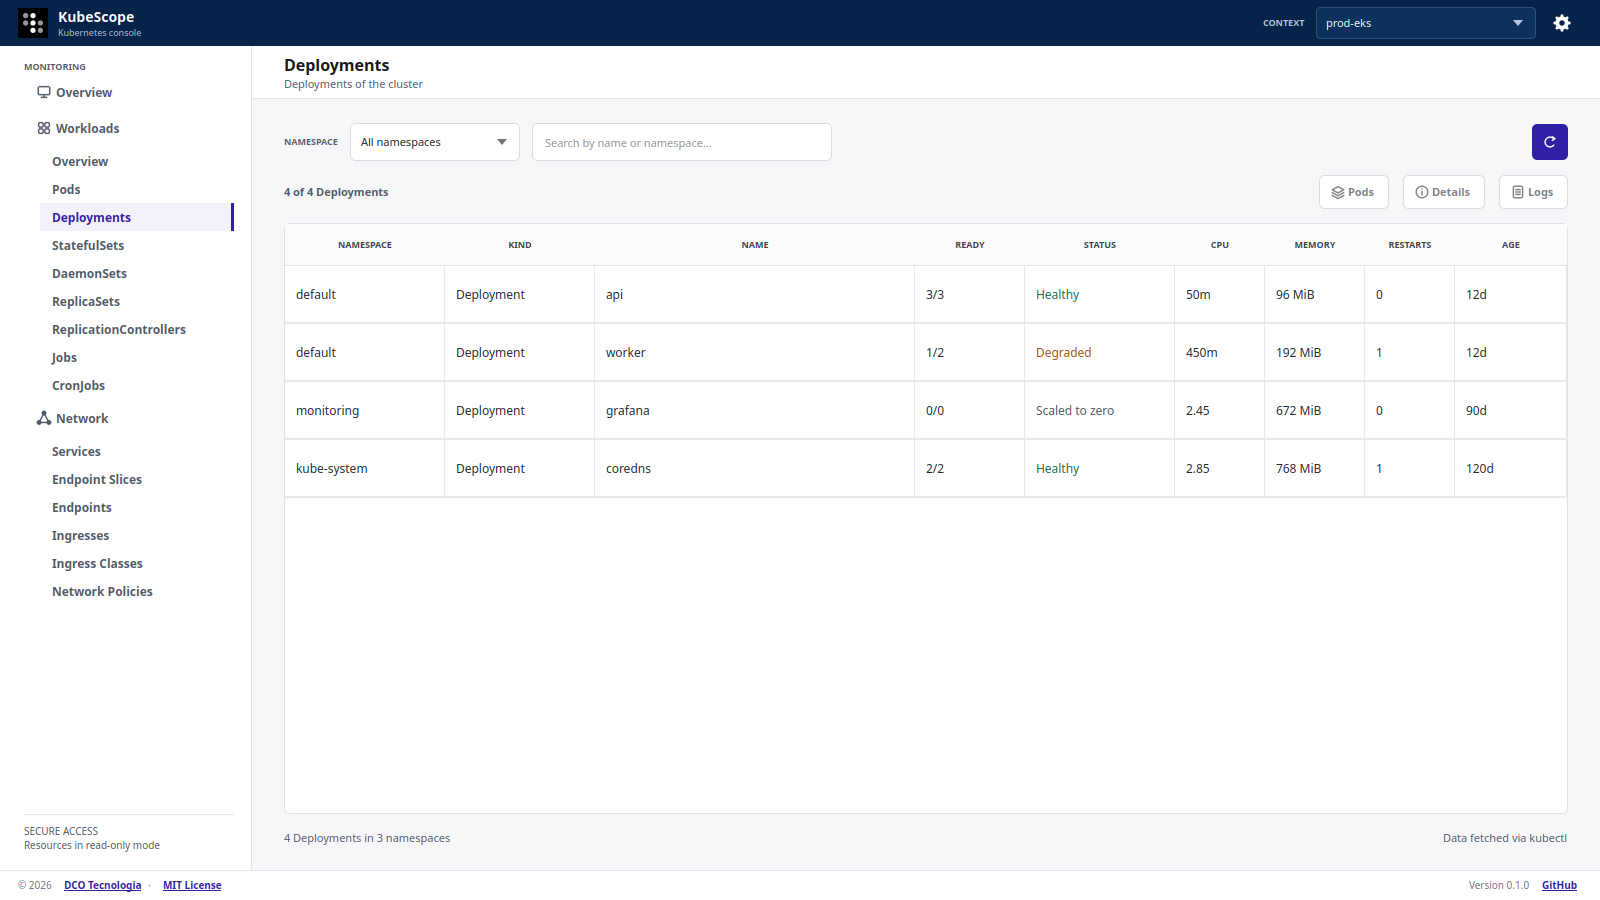
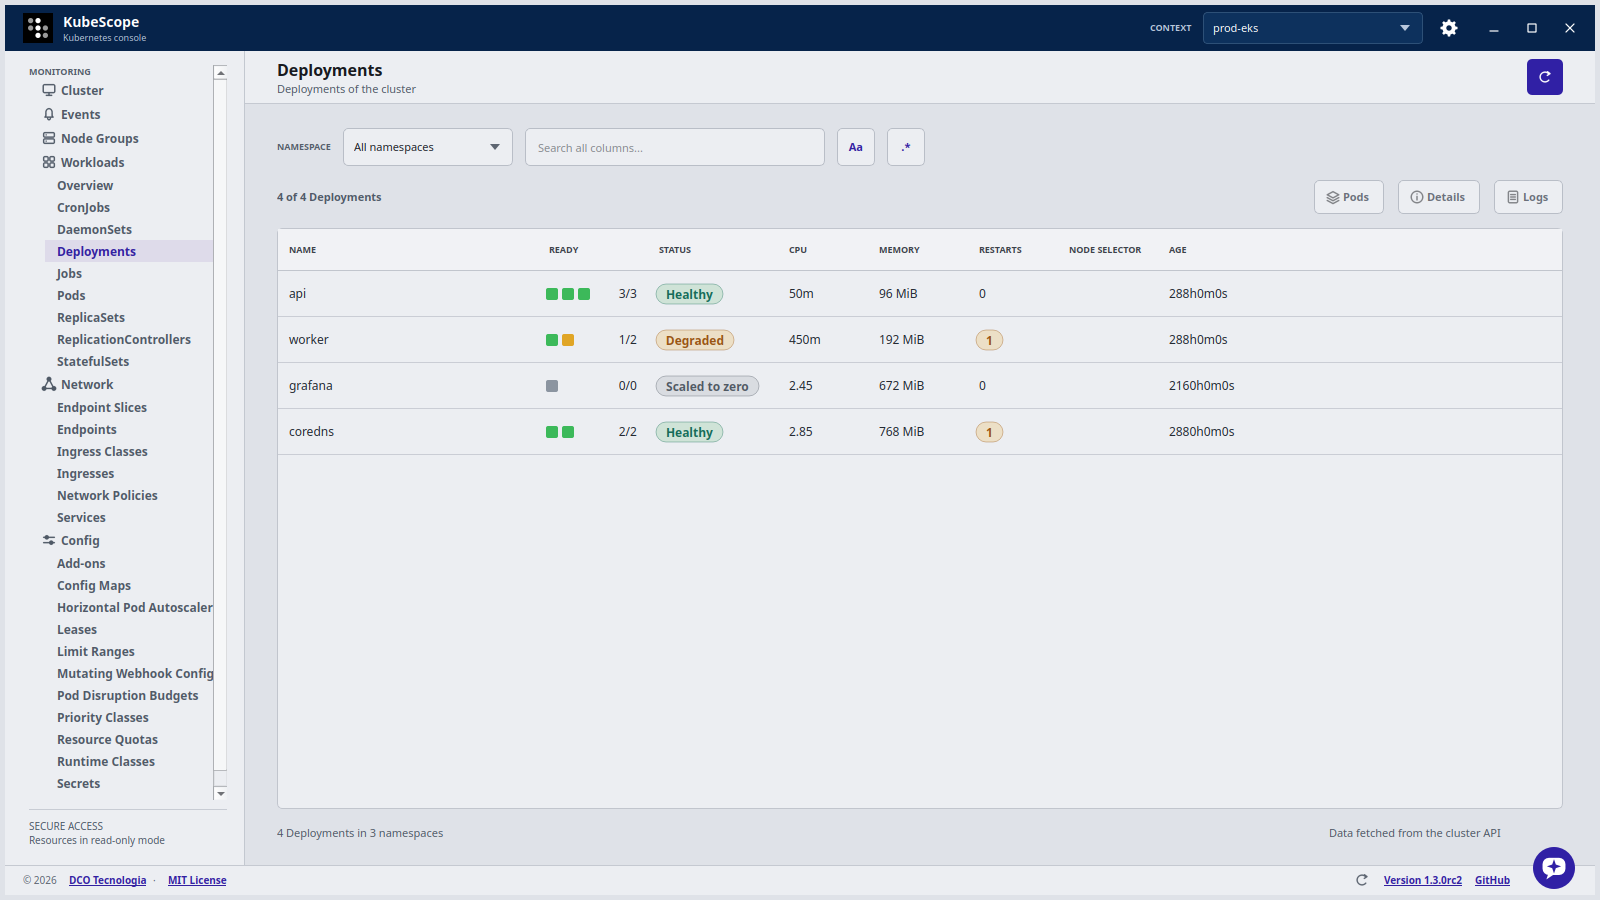
feat(theme): make the Light theme gray instead of white
- map the whites and the pale tints of the code to soft grays in light.json: the page,
  the surfaces of the tables and the fields, the tints of the states and of the
  selection, with firmer borders and quiet texts a step stronger to read on them
- let a theme made from Light start from these grays
- regenerate the screenshots of the Light theme

diff --git a/tests/test_theme.py b/tests/test_theme.py
@@ -132,7 +132,7 @@ def test_applying_a_theme_switches_the_palette() -> None:
     assert disabled.name() == "#6b7380"
 
     apply_theme(application, "light")
-    assert application.palette().color(QPalette.ColorRole.Window).name() == "#f7f7fa"
+    assert application.palette().color(QPalette.ColorRole.Window).name() == "#dfe2e8"
 
 
 def test_a_theme_always_runs_on_the_fusion_style() -> None:
@@ -170,7 +170,9 @@ def test_a_custom_theme_starts_from_its_base_and_changes_only_what_it_lists() ->
     )  # inherited from dark
 
     light_based = theme.parse_theme("plain", {"name": "Plain"})
-    assert light_based.base == "light" and light_based.colors == {}
+    # it starts from its base: the soft grays of Light, not the white of the code
+    assert light_based.base == "light"
+    assert light_based.colors == theme.LIGHT_THEME.colors
 
 
 def test_a_role_recolors_every_light_color_it_covers() -> None:
@@ -185,9 +187,11 @@ def test_on_accent_sets_the_color_of_text_that_is_white_in_the_light_theme() -> 
     theme._active = custom
 
     assert themed("#ffffff", text=True) == "#eeeeee"
-    assert themed("#ffffff") == "#ffffff"  # as a background it is untouched
+    assert (
+        themed("#ffffff") == "#eceef2"
+    )  # as a background it is the soft gray of Light
     assert "color: #eeeeee" in themed_stylesheet("QLabel { color: #ffffff; }")
-    assert "background: #ffffff" in themed_stylesheet("QLabel { background: #ffffff; }")
+    assert "background: #eceef2" in themed_stylesheet("QLabel { background: #ffffff; }")
 
 
 @pytest.mark.parametrize(
@@ -251,7 +255,7 @@ def test_theme_tokens_show_the_color_of_every_role() -> None:
     dark = theme.theme_tokens(theme.DARK_THEME)
 
     assert set(light) == set(theme.TOKENS) == set(dark)
-    assert light["page"] == "#f7f7fa" and dark["page"] == "#11141a"
+    assert light["page"] == "#dfe2e8" and dark["page"] == "#11141a"
     assert light["on_accent"] == dark["on_accent"] == "#ffffff"
     assert dark["bar_warning"] == "#e0a030"  # the same orange in both
 
@@ -428,8 +432,11 @@ def test_light_and_dark_come_from_their_json_files() -> None:
     light = json.loads((theme.BUNDLED_DIRECTORY / "light.json").read_text("utf-8"))
 
     assert theme.DARK_THEME.colors == dark["palette"] and theme.DARK_THEME.builtin
-    assert theme.LIGHT_THEME.colors == {} and "palette" not in light
+    assert theme.LIGHT_THEME.colors == light["palette"] and theme.LIGHT_THEME.builtin
     assert dark["palette"]["#ffffff"] == theme.SURFACE
+    # Light is gray, not white: no surface of it is brighter than a soft gray
+    for source in ("#f7f7fa", "#ffffff", "#f3f4f7", "#fbfbfc", "#f6f6fa"):
+        assert QColor(light["palette"][source]).lightness() <= 245
 
 
 def test_bundled_themes_keep_their_text_readable() -> None:

diff --git a/tests/test_window_flows.py b/tests/test_window_flows.py
@@ -1518,14 +1518,14 @@ def test_the_theme_is_chosen_in_settings_and_applied_at_once(monkeypatch) -> Non
     assert [form.themeCombo.itemData(i) for i in range(2)] == ["light", "dark"]
     assert form.themeCombo.currentData() == "light"
     light_style = window.styleSheet()
-    assert "#f7f7fa" in light_style and "#11141a" not in light_style
+    assert "#dfe2e8" in light_style and "#11141a" not in light_style
     light_icon = window_module._chevron_icon_path()
 
     form.themeCombo.setCurrentIndex(form.themeCombo.findData("dark"))
     window._save_preferences()
 
     assert window.settings.theme == "dark"
-    assert "#11141a" in window.styleSheet() and "#f7f7fa" not in window.styleSheet()
+    assert "#11141a" in window.styleSheet() and "#dfe2e8" not in window.styleSheet()
     phase = window.table.item(0, 4)
     assert phase is not None
     badge = phase.data(BADGE_ROLE)  # the phase, as a badge

diff --git a/tests/test_theme_editor.py b/tests/test_theme_editor.py
@@ -30,8 +30,8 @@ def test_every_color_role_has_a_label_and_a_swatch() -> None:
 
     assert set(token_labels()) == set(theme.TOKENS)
     assert set(editor._swatches) == set(theme.TOKENS)
-    assert editor._swatches["page"].text() == "#f7f7fa"
-    assert "background: #f7f7fa" in editor._swatches["page"].styleSheet()
+    assert editor._swatches["page"].text() == "#dfe2e8"
+    assert "background: #dfe2e8" in editor._swatches["page"].styleSheet()
 
 
 def test_swatch_text_stays_readable_on_light_and_dark_colors() -> None:
@@ -57,7 +57,7 @@ def test_cancelling_the_color_dialog_keeps_the_color(monkeypatch) -> None:
 
     editor._swatches["page"].click()
 
-    assert editor.values()[2]["page"] == "#f7f7fa"
+    assert editor.values()[2]["page"] == "#dfe2e8"
 
 
 def test_a_new_theme_can_restart_from_the_other_built_in_theme(monkeypatch) -> None:

diff --git a/src/kubescope/theme.py b/src/kubescope/theme.py
@@ -3,7 +3,8 @@
 The light colors are the source of truth: the style sheet and the code
 spell them out. A theme is a map from each light color to the color to
 draw instead, applied to the style sheet, the palette, the icons and
-every color the code picks. Light maps nothing; Dark maps every color.
+every color the code picks. Light softens the whites and the pale tints of the
+code into grays; Dark maps every color.
 
 To make colors easy to change, the light colors are grouped into named
 roles (page, text, accent, ...). A custom theme is a JSON file in the

diff --git a/src/kubescope/themes/README.md b/src/kubescope/themes/README.md
@@ -2,7 +2,8 @@
 
 The themes that come with the app, one `*.json` file each. `light.json` and
 `dark.json` are the two built-in themes: KubeScope reads them at start (`dark.json`
-lists in `palette` exactly what each light color becomes). Every other file is copied
+and `light.json` list in `palette` exactly what each light color becomes; Light
+softens the white of the code into grays). Every other file is copied
 to the user's themes folder when KubeScope starts, whenever that file is missing, so
 everybody gets it in **Settings > Theme** and a file deleted by hand comes back. A
 file that is there is never overwritten, so the person's edits are kept. None of the

diff --git a/CHANGELOG.md b/CHANGELOG.md
@@ -4,6 +4,10 @@ All notable changes to this project will be documented in this file. The format 
 
 ## [Unreleased]
 
+### Changed
+
+- The **Light** theme is gray instead of white: the page, the side menu, the tables and the fields use soft grays with firmer borders, and the quiet texts are a step stronger to read on them by @danilogco
+
 ## [1.3.0-rc2] - 2026-10-29
 
 ### Added

diff --git a/src/kubescope/assets/CHANGELOG.md b/src/kubescope/assets/CHANGELOG.md
@@ -4,6 +4,10 @@ All notable changes to this project will be documented in this file. The format 
 
 ## [Unreleased]
 
+### Changed
+
+- The **Light** theme is gray instead of white: the page, the side menu, the tables and the fields use soft grays with firmer borders, and the quiet texts are a step stronger to read on them by @danilogco
+
 ## [1.3.0-rc2] - 2026-10-29
 
 ### Added
